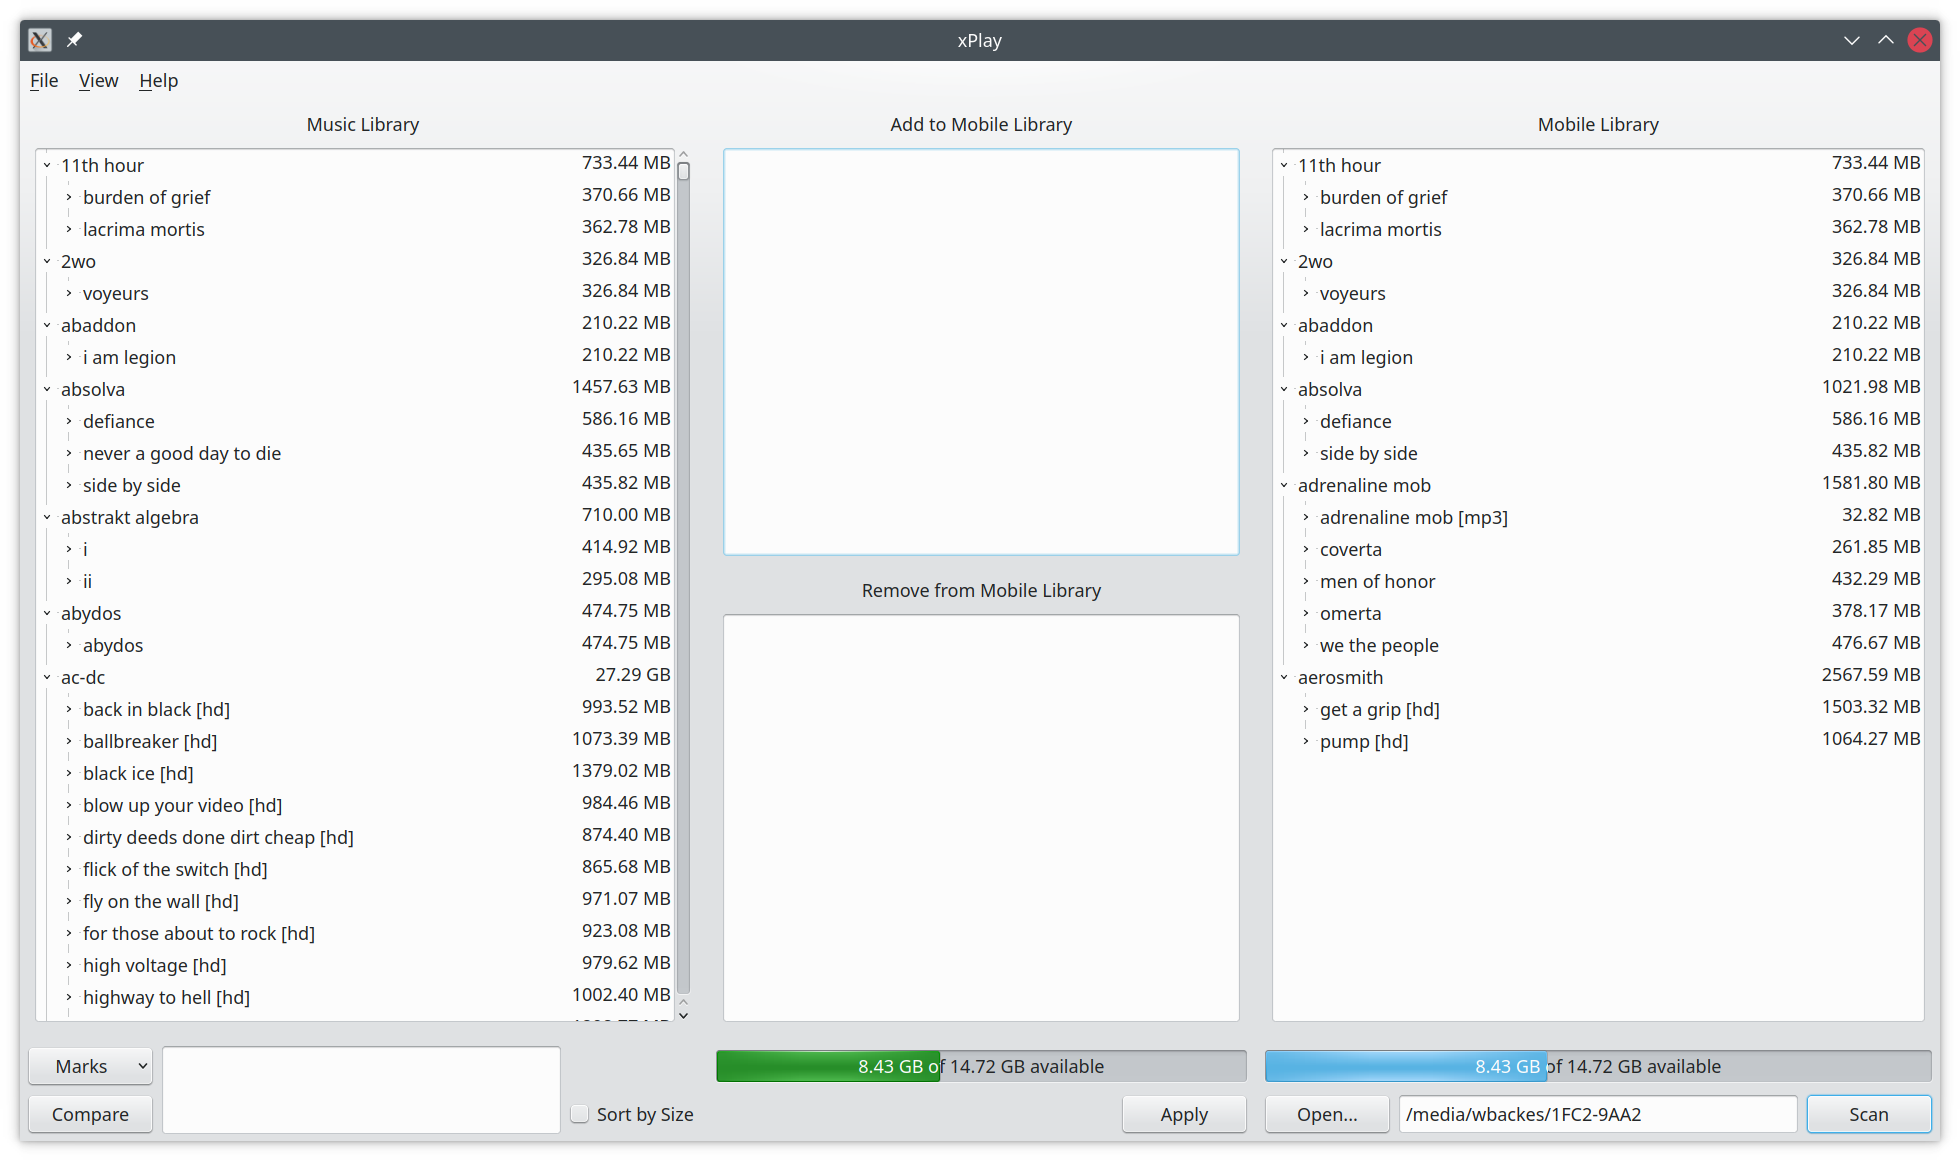
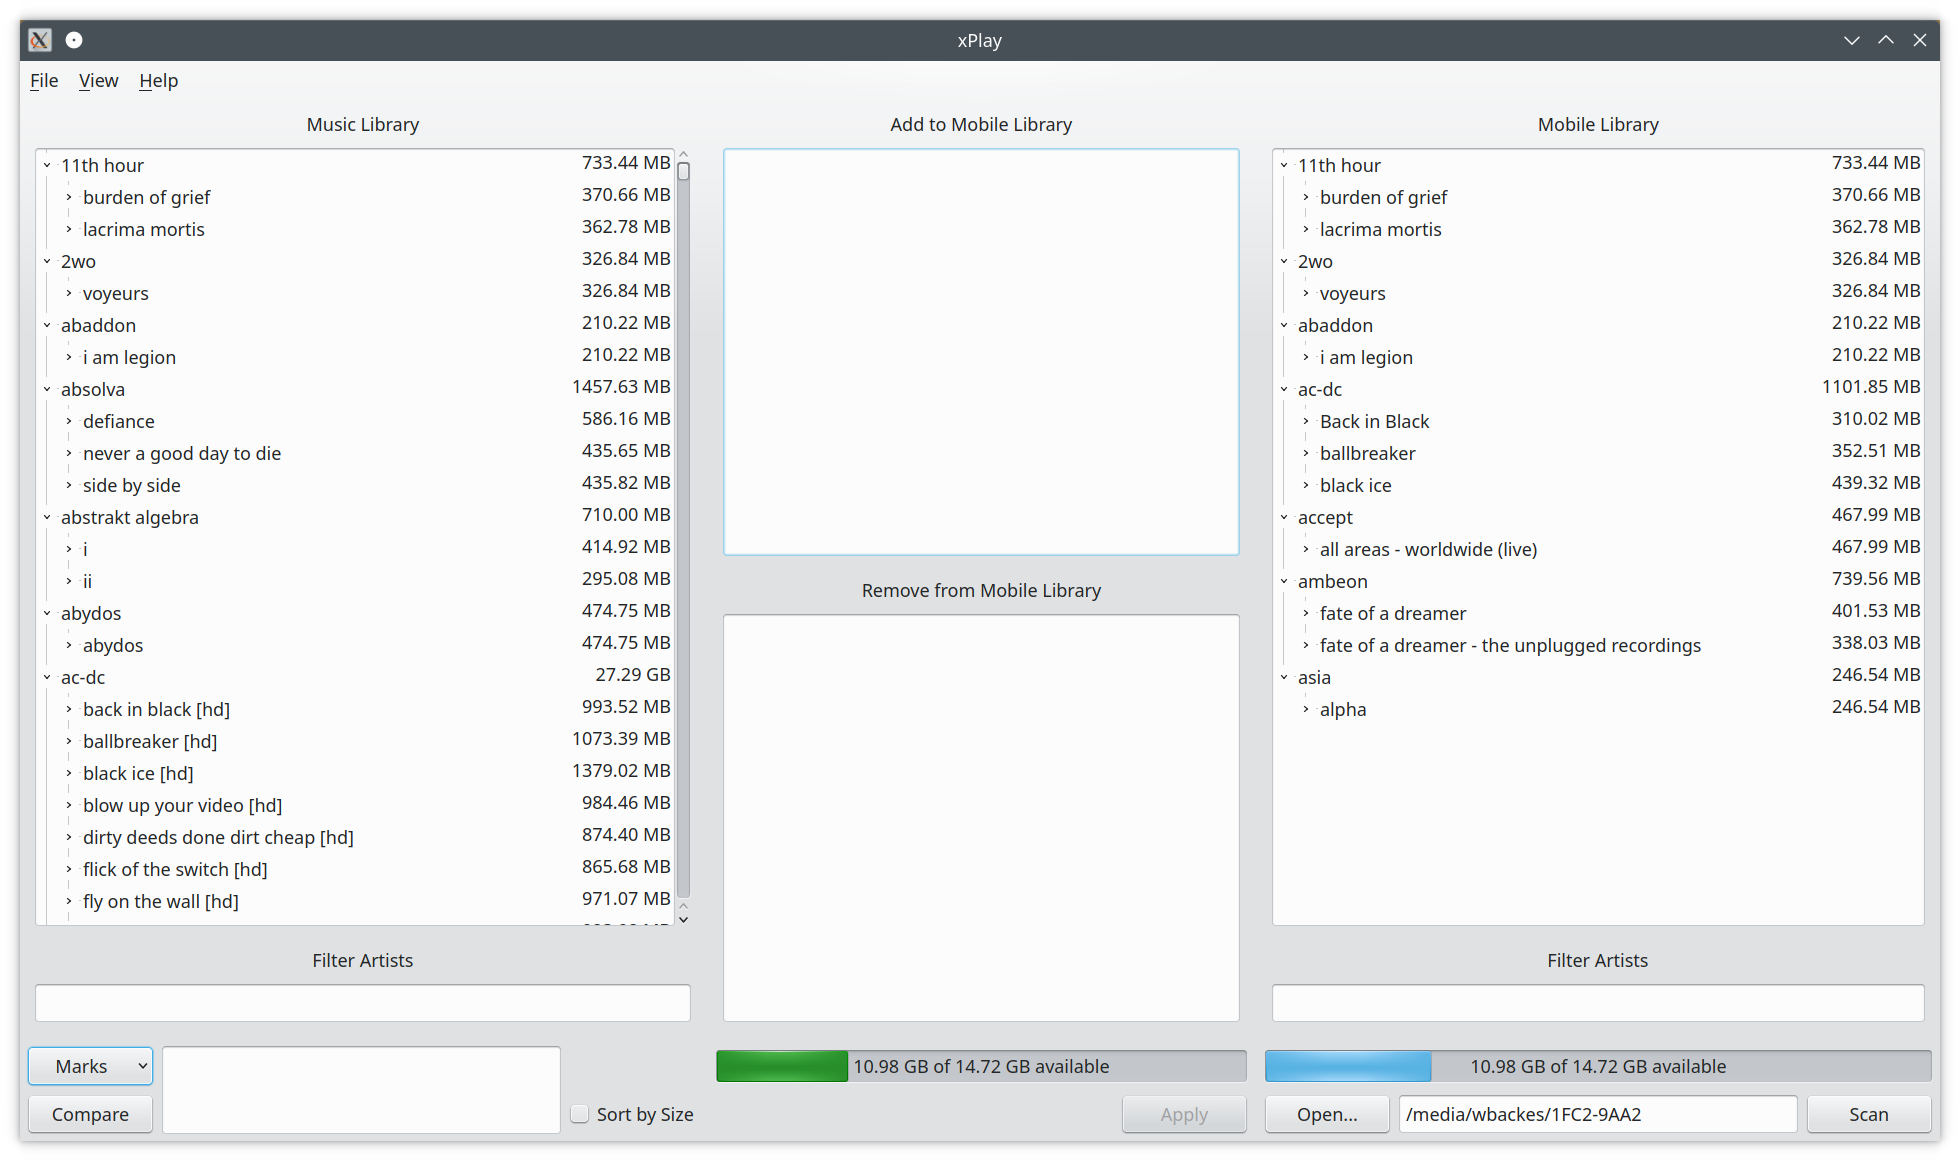
Update CHANGELOG.md and README.md. Update screenshots and version number.

diff --git a/xPlay.cpp b/xPlay.cpp
@@ -155,7 +155,7 @@ int main(int argc, char* argv[])
 {
     QApplication playApp(argc, argv);
     QApplication::setApplicationName("xPlay");
-    QApplication::setApplicationVersion("0.10.2");
+    QApplication::setApplicationVersion("0.10.3");
     QCommandLineParser playAppParser;
     if (handleCommandLine(playApp, playAppParser)) {
         // Exit if the command line was handled.

diff --git a/README.md b/README.md
@@ -145,7 +145,8 @@ A music visualization based on projectM is available and can be activated via th
 *Music View* sub menu. The visualization (when activated) is displayed whenever the the music player is playing and
 the artist info view is currently not activated. The visualization (when displayed) reverts to the artist, album and
 track view whenever the music player pauses or stops. A right-click on the visualization opens a popup menu that allows
-selecting a projectM preset. A double-click will display the name of the currently selected preset.
+selecting a projectM preset. A double-click will display the name of the currently selected preset. A double-click on
+the player widget itself will toggle the music visualization.
 
 #### Selectors and Filters
 
@@ -263,7 +264,8 @@ A ctrl+right-click to an element of the music library will add the corresponding
 element to the *Remove from Mobile Library* list. The impact of the listed changes to the mobile library will be
 displayed in a progress bar. The progress bar changes color from green to red in case there is no sufficient storage
 space for the mobile library. Pressing the *Apply* button will perform the removal operations before the add operations.
-A progess bar will show display the progress of the sync operation.
+A progess bar will show display the progress of the sync operation. The re-scanning of the music library is disabled
+during the sync operation.
 
 
 ### Menu

diff --git a/CHANGELOG.md b/CHANGELOG.md
@@ -1,6 +1,16 @@
 # Changelog
 
 
+## 0.10.3 - 2021-12-11
+
+- Disable music library scanning while syncing mobile library.
+- Add visualization toggle when double-clicking on music player widget.
+- Add artist filter for music and mobile library.
+- Fix incorrect name visualization preset output.
+- Fix tree expansion mode, when updating music or mobile library tree.
+- Fix segfault caused by thread based update of track time.
+
+
 ## 0.10.2 - 2021-11-25
 
 - Reduce the sample rate for music visualization.
